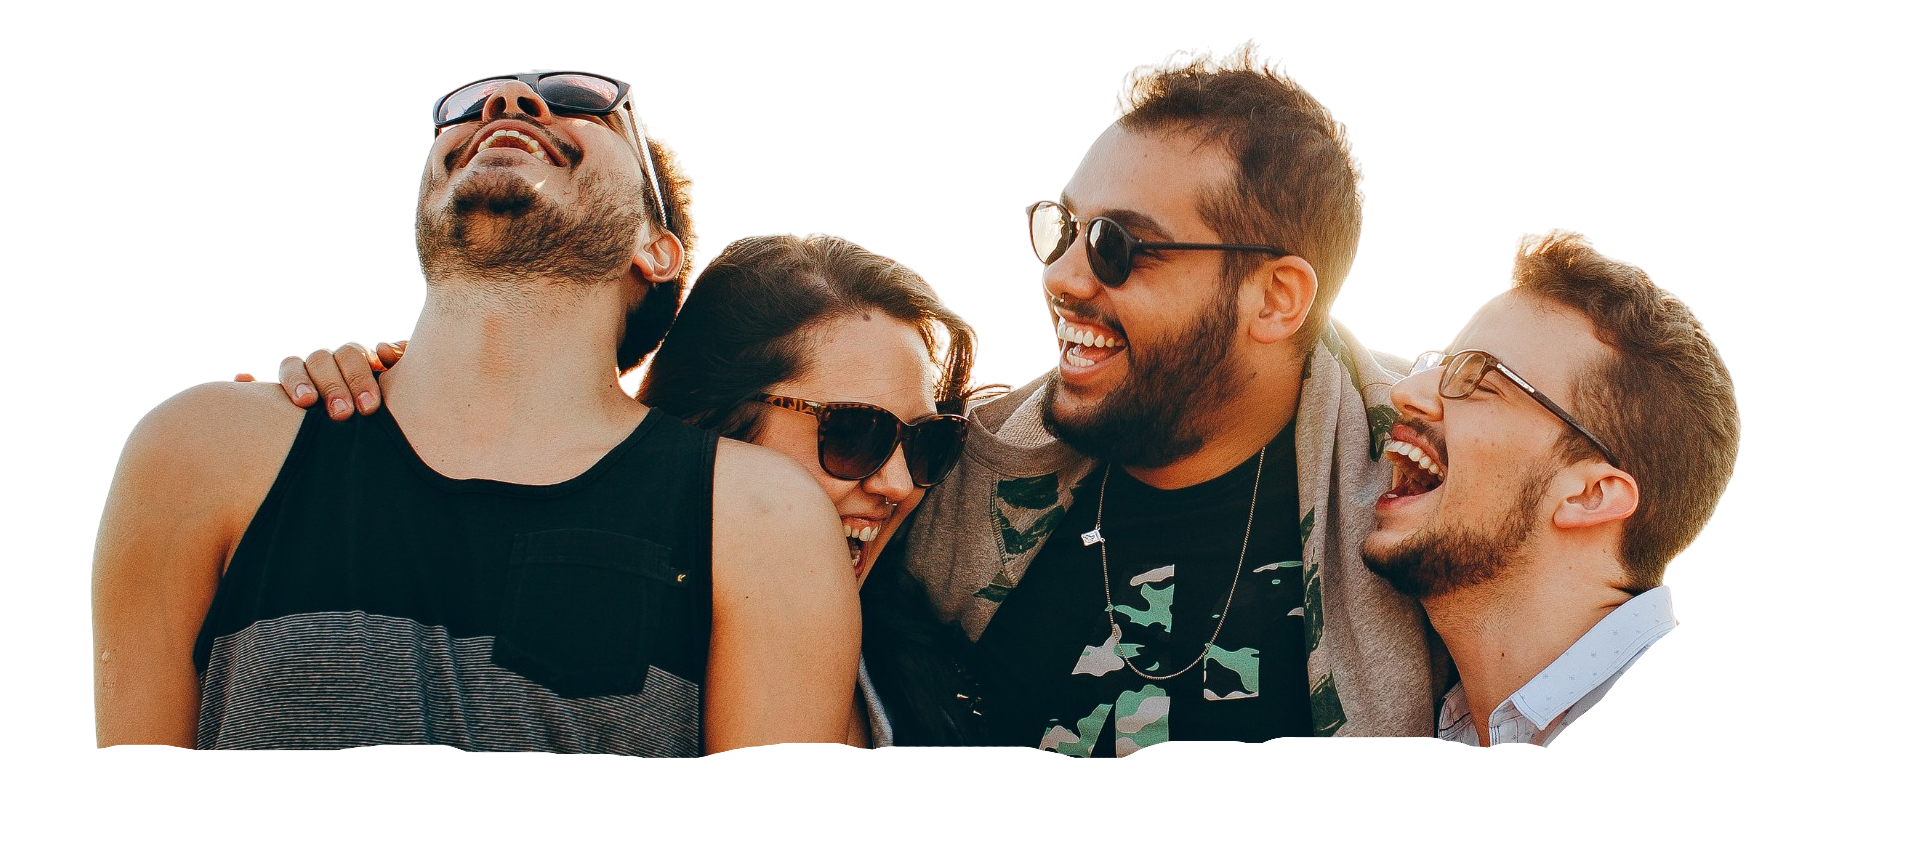
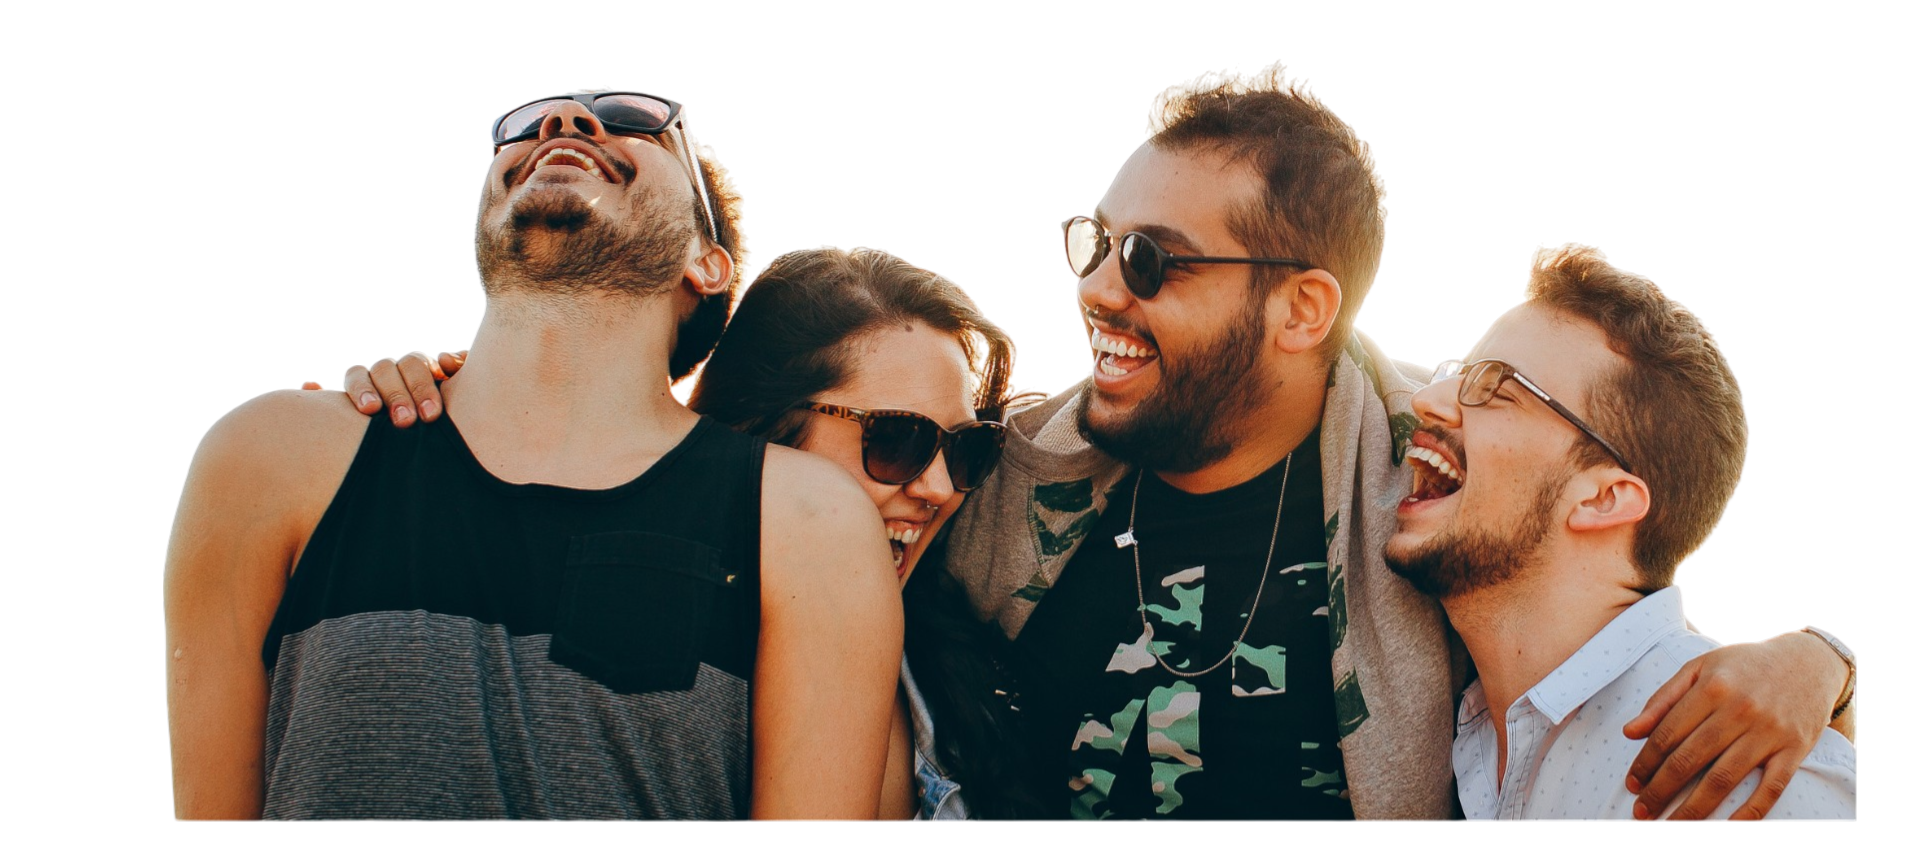
Arreglos en el responsive del celular.

diff --git a/src/components/Home/styles/panoramas.css b/src/components/Home/styles/panoramas.css
@@ -32,7 +32,7 @@
 }
 
 .panoramas__header-text {
-  font-size: var(--text-5xl);
+  font-size: 3.5rem;
   font-weight: 900;
   color: #ffffff;
   text-transform: capitalize;
@@ -195,7 +195,7 @@
 
 /* ===== TÍTULO ===== */
 .panoramas__title {
-  font-size: 2.8rem;
+  font-size: 4rem;
   font-weight: 900;
   color: #ffffff;
   text-transform: capitalize;
@@ -208,7 +208,7 @@
 
 /* ===== SUBTÍTULO ===== */
 .panoramas__subtitle {
-  font-size: var(--text-xl);
+  font-size: 1.6rem;
   font-weight: 600;
   color: #ff6600;
   text-transform: capitalize;
@@ -268,7 +268,7 @@
   }
 
   .panoramas__header-text {
-    font-size: 1.3rem;
+    font-size: 2.2rem;
   }
 
   .panoramas {
@@ -277,25 +277,30 @@
     min-height: 260px;
   }
 
+  .panoramas::before {
+    width: 500px;
+    height: 500px;
+  }
+
   .panoramas__people-img {
     max-height: 260px;
   }
 
   .panoramas__logo {
-    width: 110px;
+    width: 120px;
   }
 
   .panoramas__title {
-    font-size: 2.2rem;
+    font-size: 3.5rem;
   }
 
   .panoramas__subtitle {
-    font-size: 0.8rem;
+    font-size: 1.4rem;
   }
 
   .panoramas__btn {
-    padding: 10px 24px;
-    font-size: 0.8rem;
+    padding: 14px 32px;
+    font-size: 1rem;
   }
 }
 
@@ -305,7 +310,7 @@
   }
 
   .panoramas__header-text {
-    font-size: 1.1rem;
+    font-size: 1.9rem;
   }
 
   .panoramas {
@@ -316,8 +321,8 @@
   }
 
   .panoramas::before {
-    width: 400px;
-    height: 400px;
+    width: 300px;
+    height: 300px;
   }
 
   .panoramas__image-side {
@@ -333,7 +338,7 @@
   }
 
   .panoramas__logo {
-    width: 95px;
+    width: 110px;
   }
 
   .panoramas__logo-wrapper::before {
@@ -342,17 +347,16 @@
   }
 
   .panoramas__title {
-    font-size: 1.8rem;
+    font-size: 3rem;
   }
 
   .panoramas__subtitle {
-    font-size: 0.75rem;
-    max-width: 280px;
+    font-size: 1.3rem;
   }
 
   .panoramas__btn {
-    padding: 10px 22px;
-    font-size: 0.75rem;
+    padding: 14px 32px;
+    font-size: 1rem;
   }
 
   .panoramas__content {
@@ -366,7 +370,7 @@
   }
 
   .panoramas__header-text {
-    font-size: 0.95rem;
+    font-size: 1.6rem;
   }
 
   .panoramas {
@@ -374,26 +378,30 @@
     gap: 15px;
   }
 
+  .panoramas::before {
+    width: 200px;
+    height: 200px;
+  }
+
   .panoramas__people-img {
     max-height: 160px;
   }
 
   .panoramas__logo {
-    width: 80px;
+    width: 95px;
   }
 
   .panoramas__title {
-    font-size: 1.4rem;
+    font-size: 2.5rem;
   }
 
   .panoramas__subtitle {
-    font-size: 0.7rem;
-    max-width: 240px;
+    font-size: 1.1rem;
   }
 
   .panoramas__btn {
-    padding: 8px 18px;
-    font-size: 0.7rem;
+    padding: 12px 30px 10px;
+    font-size: 0.8rem;
   }
 
   .panoramas__divider {

diff --git a/src/components/Home/styles/secciones.css b/src/components/Home/styles/secciones.css
@@ -272,7 +272,7 @@
 }
 
 .secciones__title {
-  font-size: 2.2rem;
+  font-size: 3.2rem;
   font-weight: 900;
   color: var(--white);
   text-transform: capitalize;
@@ -291,7 +291,7 @@
 }
 
 .secciones__subtitle {
-  font-size: var(--text-xl);
+  font-size: 1.4rem;
   font-weight: 600;
   color: #ff6600;
   text-transform: capitalize;
@@ -396,11 +396,11 @@
   }
 
   .secciones__title {
-    font-size: 1.8rem;
+    font-size: 2.8rem;
   }
 
   .secciones__subtitle {
-    font-size: 1rem;
+    font-size: 1.1rem;
   }
 
   .secciones__icon-wrapper {
@@ -450,11 +450,11 @@
   }
 
   .secciones__title {
-    font-size: 1.5rem;
+    font-size: 2.2rem;
   }
 
   .secciones__subtitle {
-    font-size: 0.9rem;
+    font-size: 1rem;
   }
 
   .secciones__description {
@@ -494,11 +494,11 @@
   }
 
   .secciones__title {
-    font-size: 1.8rem;
+    font-size: 2.2rem;
   }
 
   .secciones__subtitle {
-    font-size: 0.95rem;
+    font-size: 1.2rem;
   }
 
   .secciones__description {

diff --git a/src/components/Home/styles/footer.css b/src/components/Home/styles/footer.css
@@ -302,6 +302,9 @@
 
   .footer__slogan {
     max-width: 280px;
+    text-align: center;
+    margin-left: 0;
+    white-space: normal;
   }
 
   .footer__nav-list {
